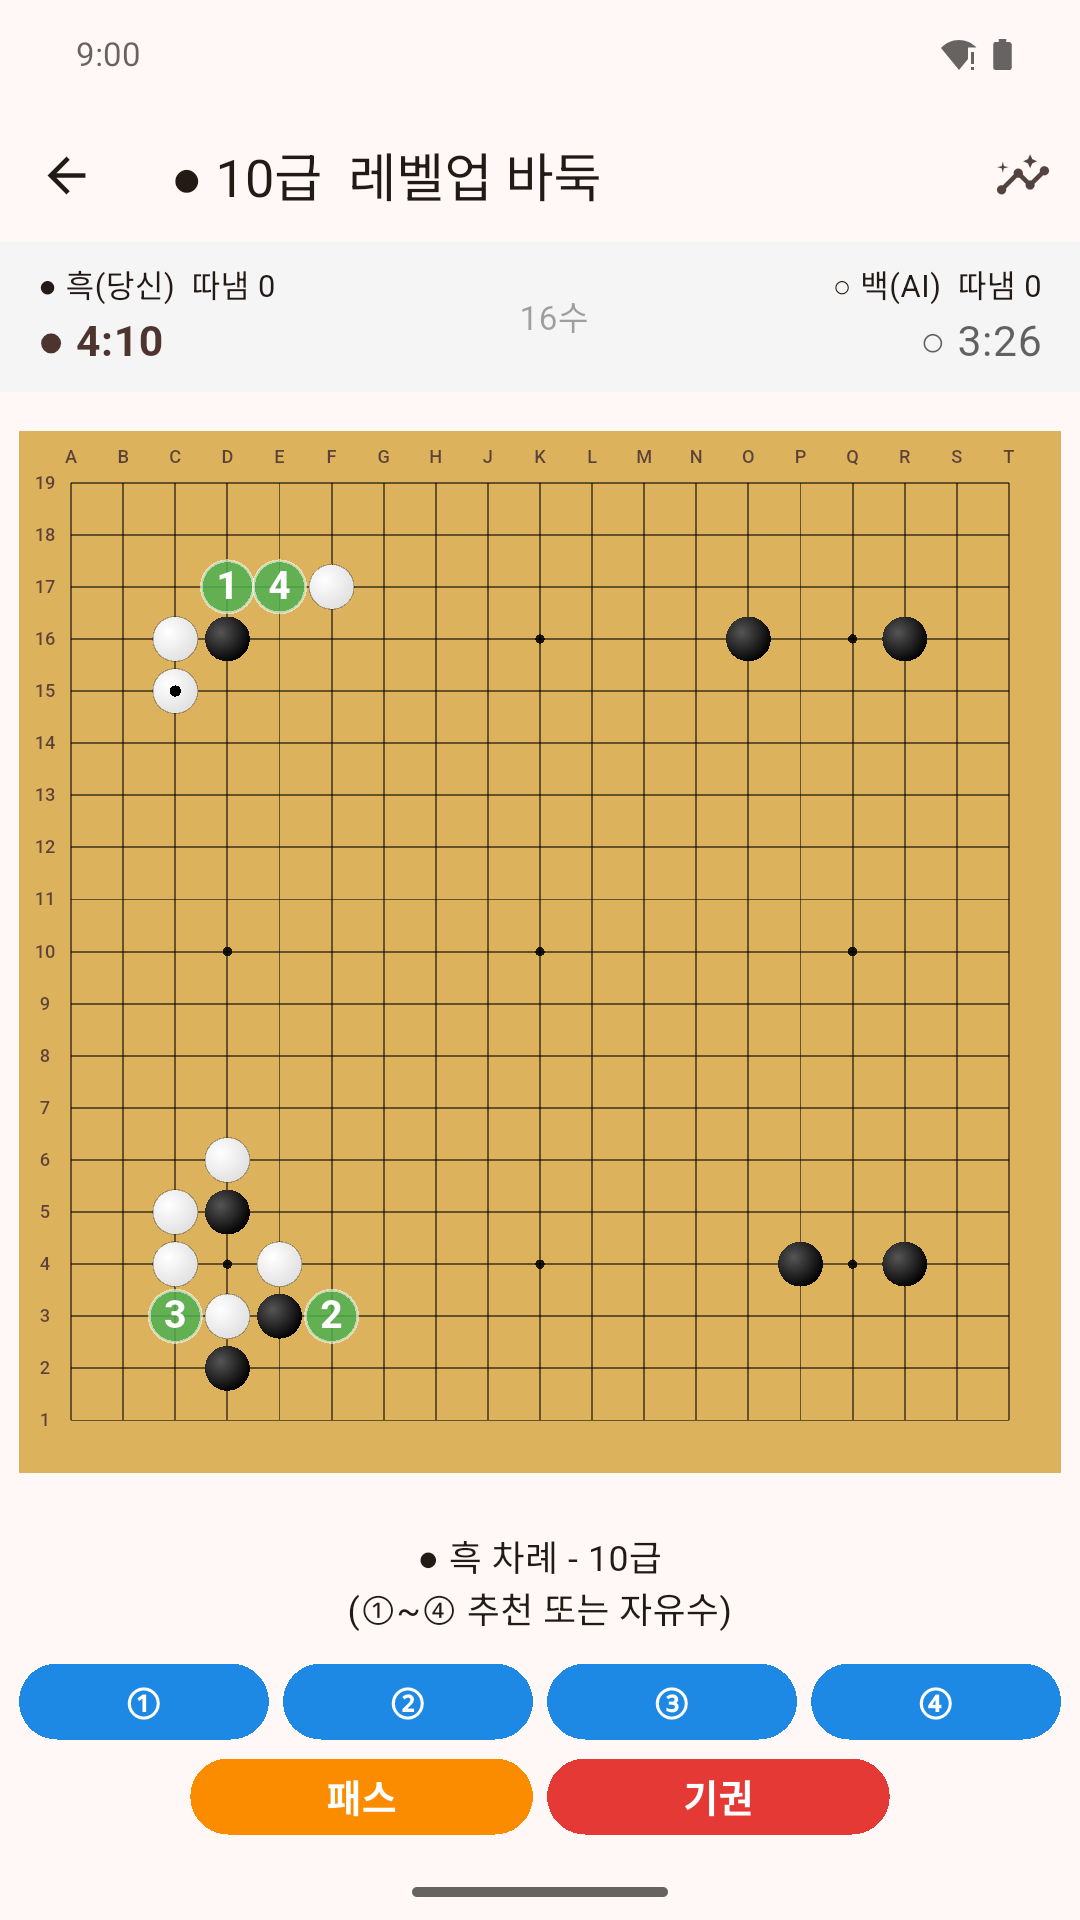
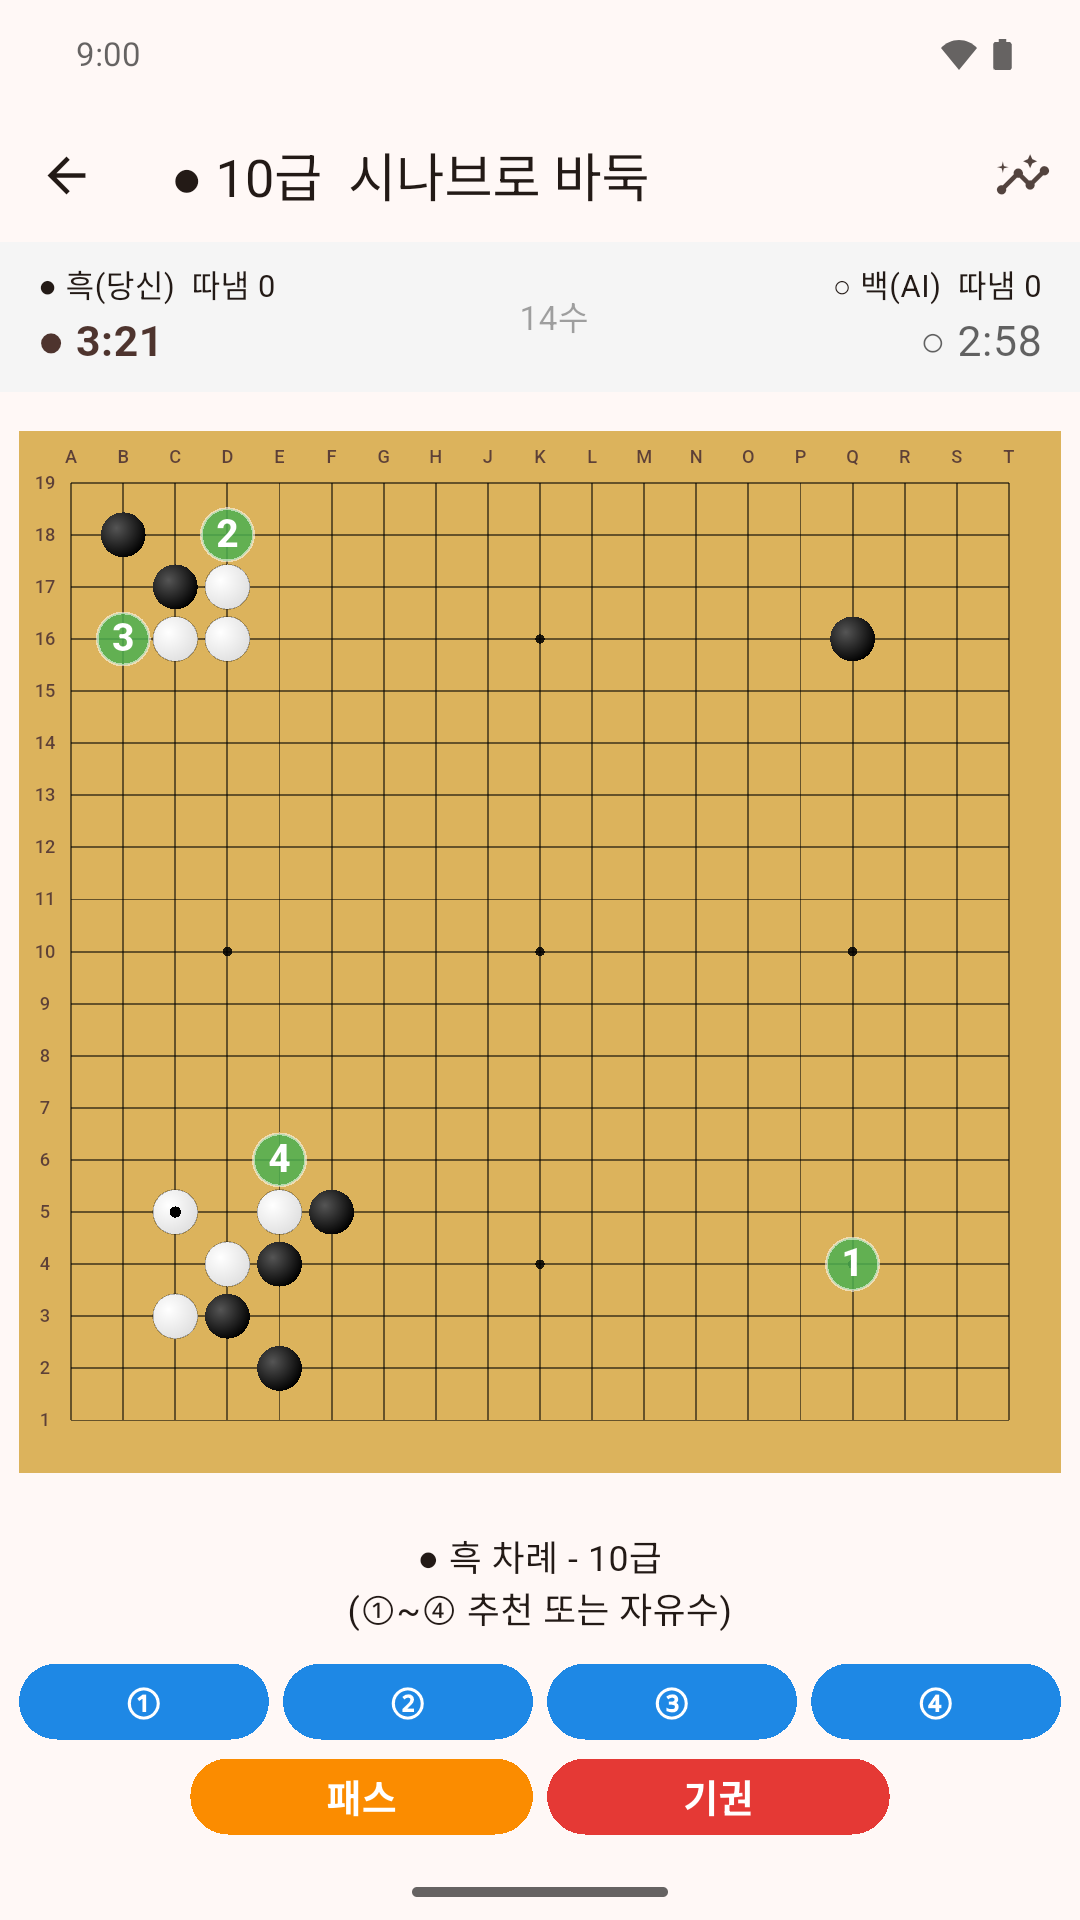
앱 이름을 "시나브로 바둑: 레벨업" 으로 변경
- docs/index.html: 페이지 제목과 머리글의 앱 이름, 한 줄 소개(meta description)를 새 문구로
- docs/privacy/index.html: 방침 제목과 본문, 영어 요약의 앱 이름 (방침 내용과 시행일은 그대로)
- docs/store/screenshots/: 대국 중반과 홈 화면을 새 이름이 보이는 화면으로 교체

diff --git a/docs/privacy/index.html b/docs/privacy/index.html
@@ -3,8 +3,8 @@
 <head>
 <meta charset="utf-8">
 <meta name="viewport" content="width=device-width, initial-scale=1">
-<title>레벨업 바둑 개인정보처리방침</title>
-<meta name="description" content="레벨업 바둑 앱의 개인정보처리방침. 이 앱은 개인정보를 수집하거나 외부로 전송하지 않습니다.">
+<title>시나브로 바둑: 레벨업 개인정보처리방침</title>
+<meta name="description" content="시나브로 바둑: 레벨업 앱의 개인정보처리방침. 이 앱은 개인정보를 수집하거나 외부로 전송하지 않습니다.">
 <style>
   :root { --bg: #ffffff; --fg: #1f2328; --muted: #57606a; --line: #d8dee4; --mark: #fff3bf; }
   @media (prefers-color-scheme: dark) {
@@ -27,11 +27,11 @@
 <body>
 <main>
 
-<h1>레벨업 바둑 개인정보처리방침</h1>
+<h1>시나브로 바둑: 레벨업 개인정보처리방침</h1>
 <p class="meta">시행일: 2026년 11월 24일</p>
 
 <p class="summary">
-  레벨업 바둑(이하 "앱")은 인터넷에 연결하지 않고 기기 안에서만 동작하는 1인용 바둑 게임입니다.
+  시나브로 바둑: 레벨업(이하 "앱")은 인터넷에 연결하지 않고 기기 안에서만 동작하는 1인용 바둑 게임입니다.
   앱과 개발자는 이용자의 개인정보를 수집하지 않으며, 어떤 정보도 기기 밖으로 전송하지 않습니다.
 </p>
 
@@ -85,7 +85,7 @@
 <h2 lang="en">Privacy Policy (English summary)</h2>
 <div lang="en">
 <p>
-  Levelup Baduk (레벨업 바둑) is a single-player Go (baduk) game that runs entirely on your device, without an internet connection.
+  Sinabro Baduk: Level Up (시나브로 바둑: 레벨업) is a single-player Go (baduk) game that runs entirely on your device, without an internet connection.
   The app and its developer do not collect, transmit, or share any personal information.
 </p>
 <ul>

diff --git a/docs/index.html b/docs/index.html
@@ -3,8 +3,8 @@
 <head>
 <meta charset="utf-8">
 <meta name="viewport" content="width=device-width, initial-scale=1">
-<title>레벨업 바둑</title>
-<meta name="description" content="AI가 추천한 네 수 중 하나를 고르거나 자유롭게 두며 급수를 올리는 1인용 바둑 게임.">
+<title>시나브로 바둑: 레벨업</title>
+<meta name="description" content="AI가 추천한 네 수 중 하나를 고르거나 원하는 곳에 자유수를 두며 급수를 올리는 1인용 바둑 학습 게임.">
 <link rel="icon" href="store/play_icon_512.png">
 <style>
   :root { --bg: #fffaf3; --fg: #2b1d0e; --muted: #6e5334; --line: #e6d3b0; --card: #fff3dc; }
@@ -41,9 +41,9 @@
 <main>
 
 <header>
-  <img src="store/play_icon_512.png" alt="레벨업 바둑 앱 아이콘">
+  <img src="store/play_icon_512.png" alt="시나브로 바둑: 레벨업 앱 아이콘">
   <div>
-    <h1>레벨업 바둑</h1>
+    <h1>시나브로 바둑: 레벨업</h1>
     <p class="tagline">4지선다 + 자유수 · Android</p>
   </div>
 </header>
